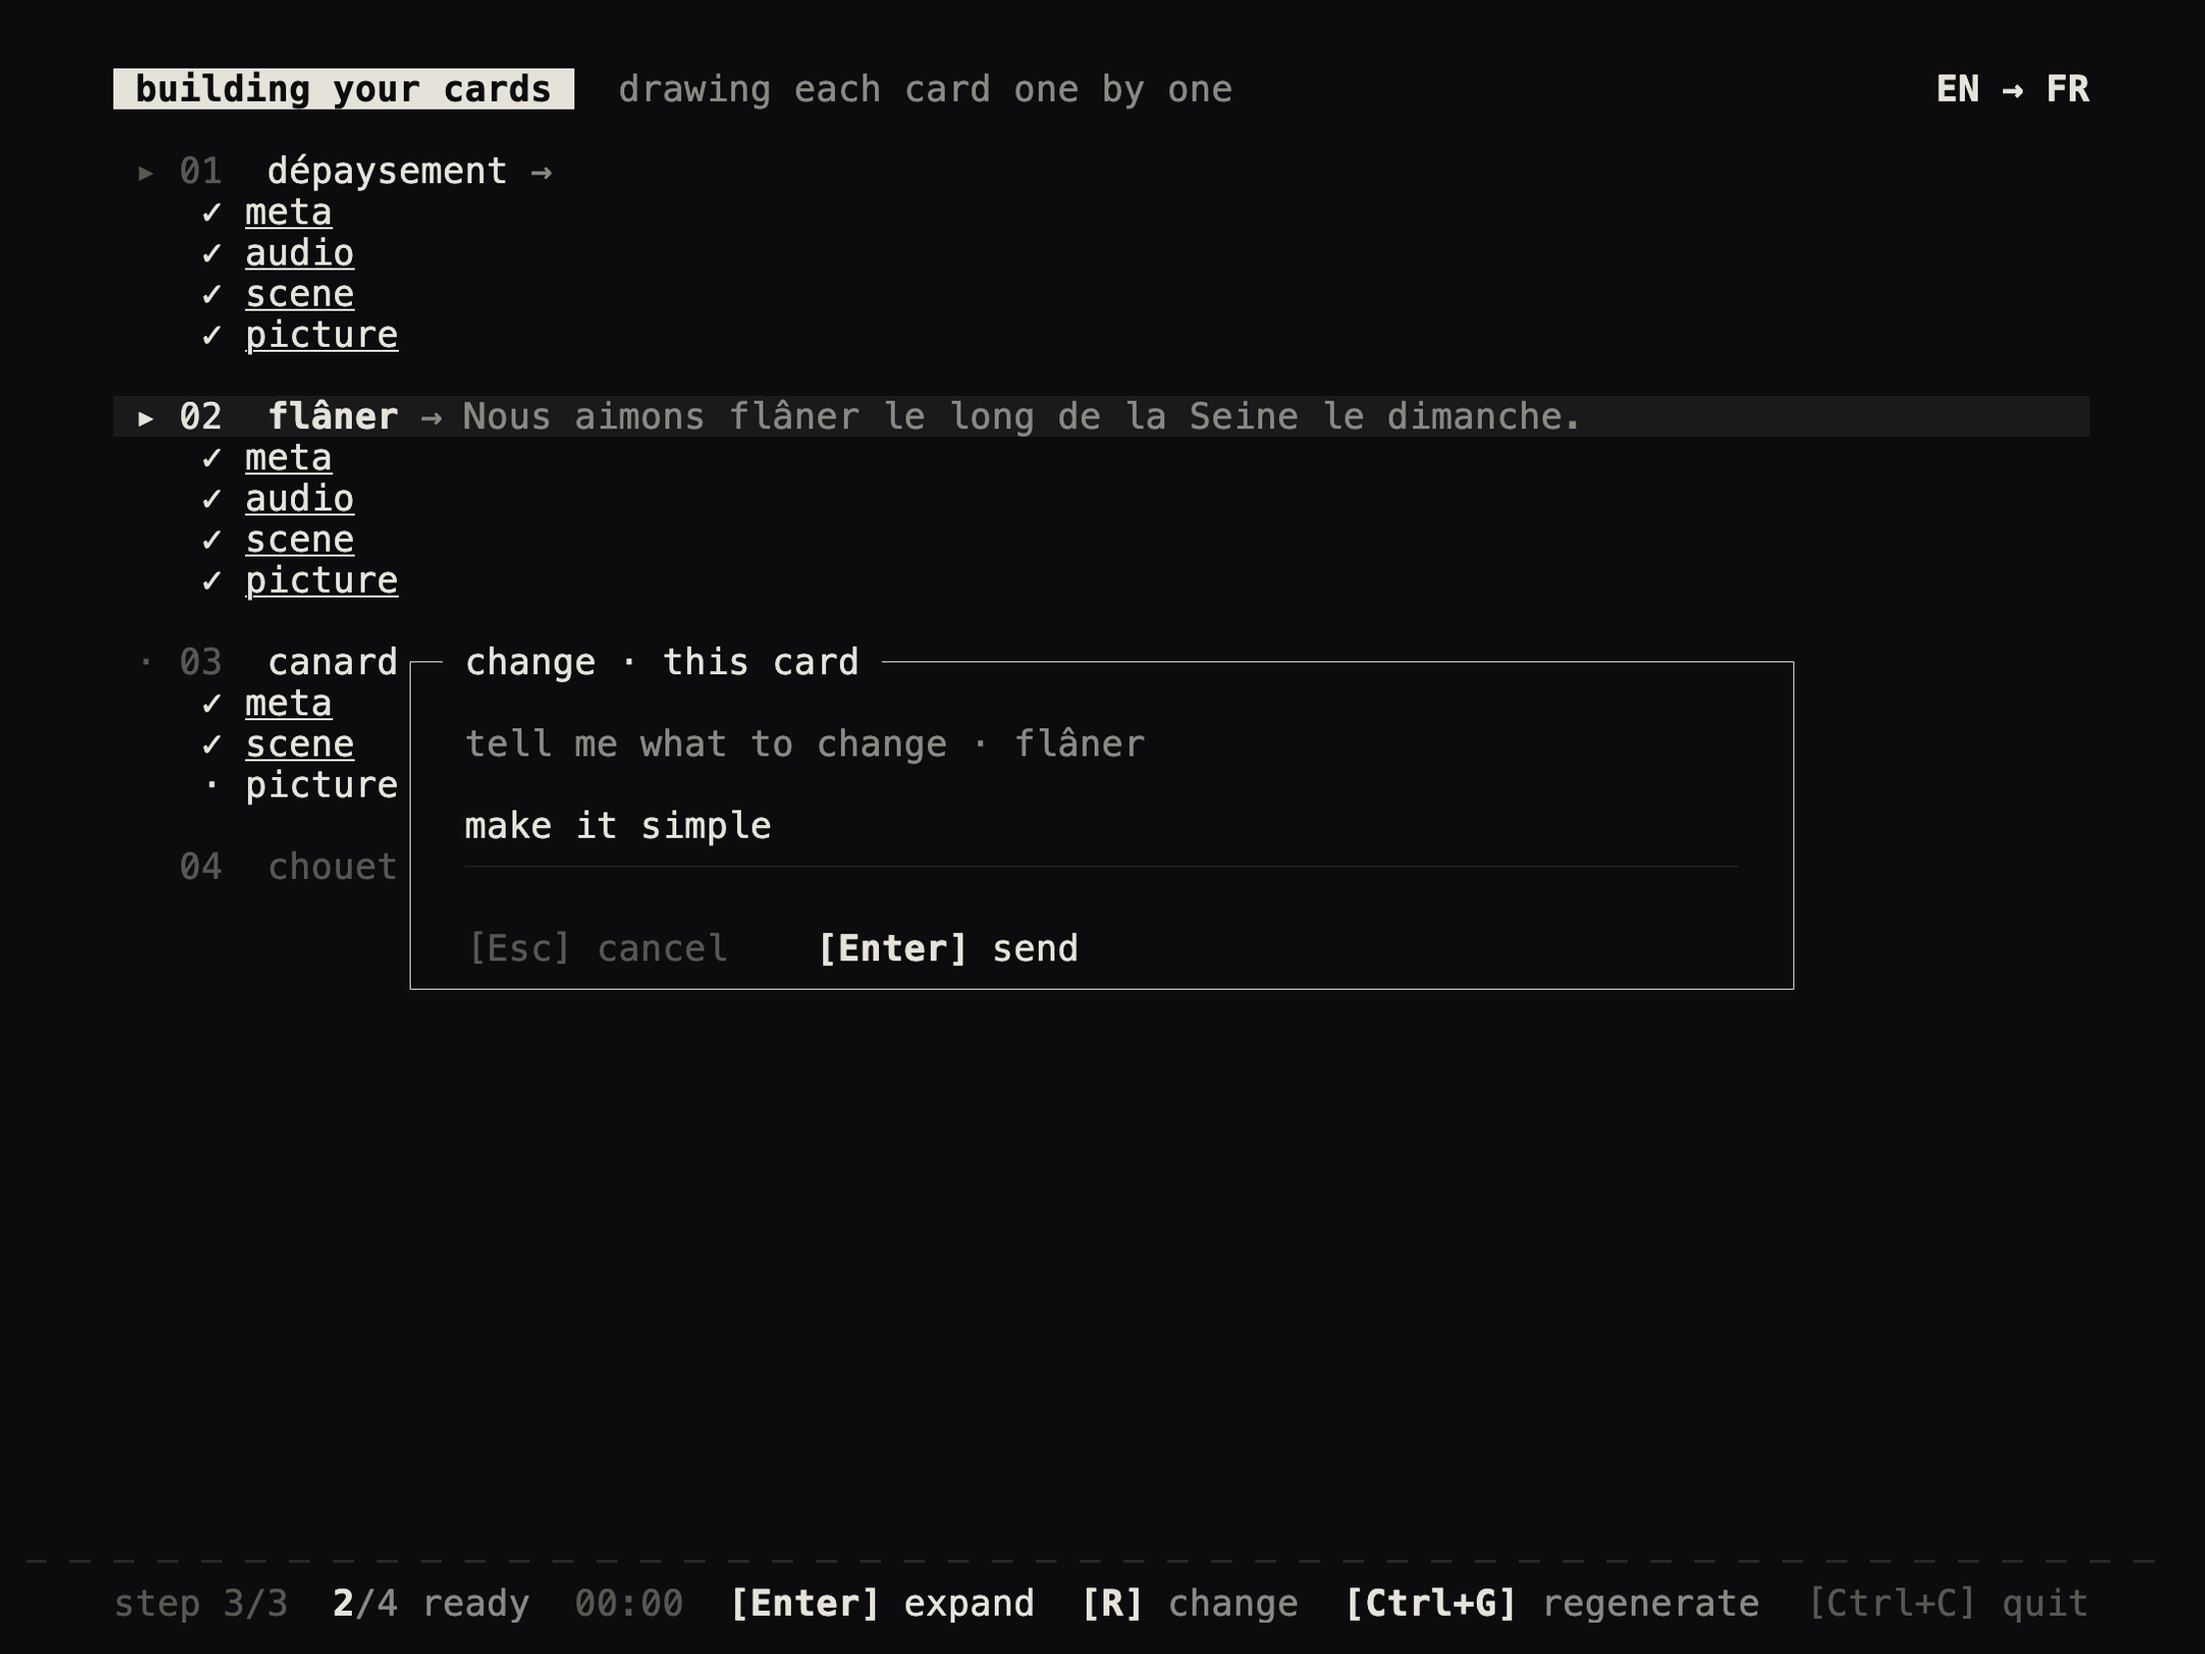
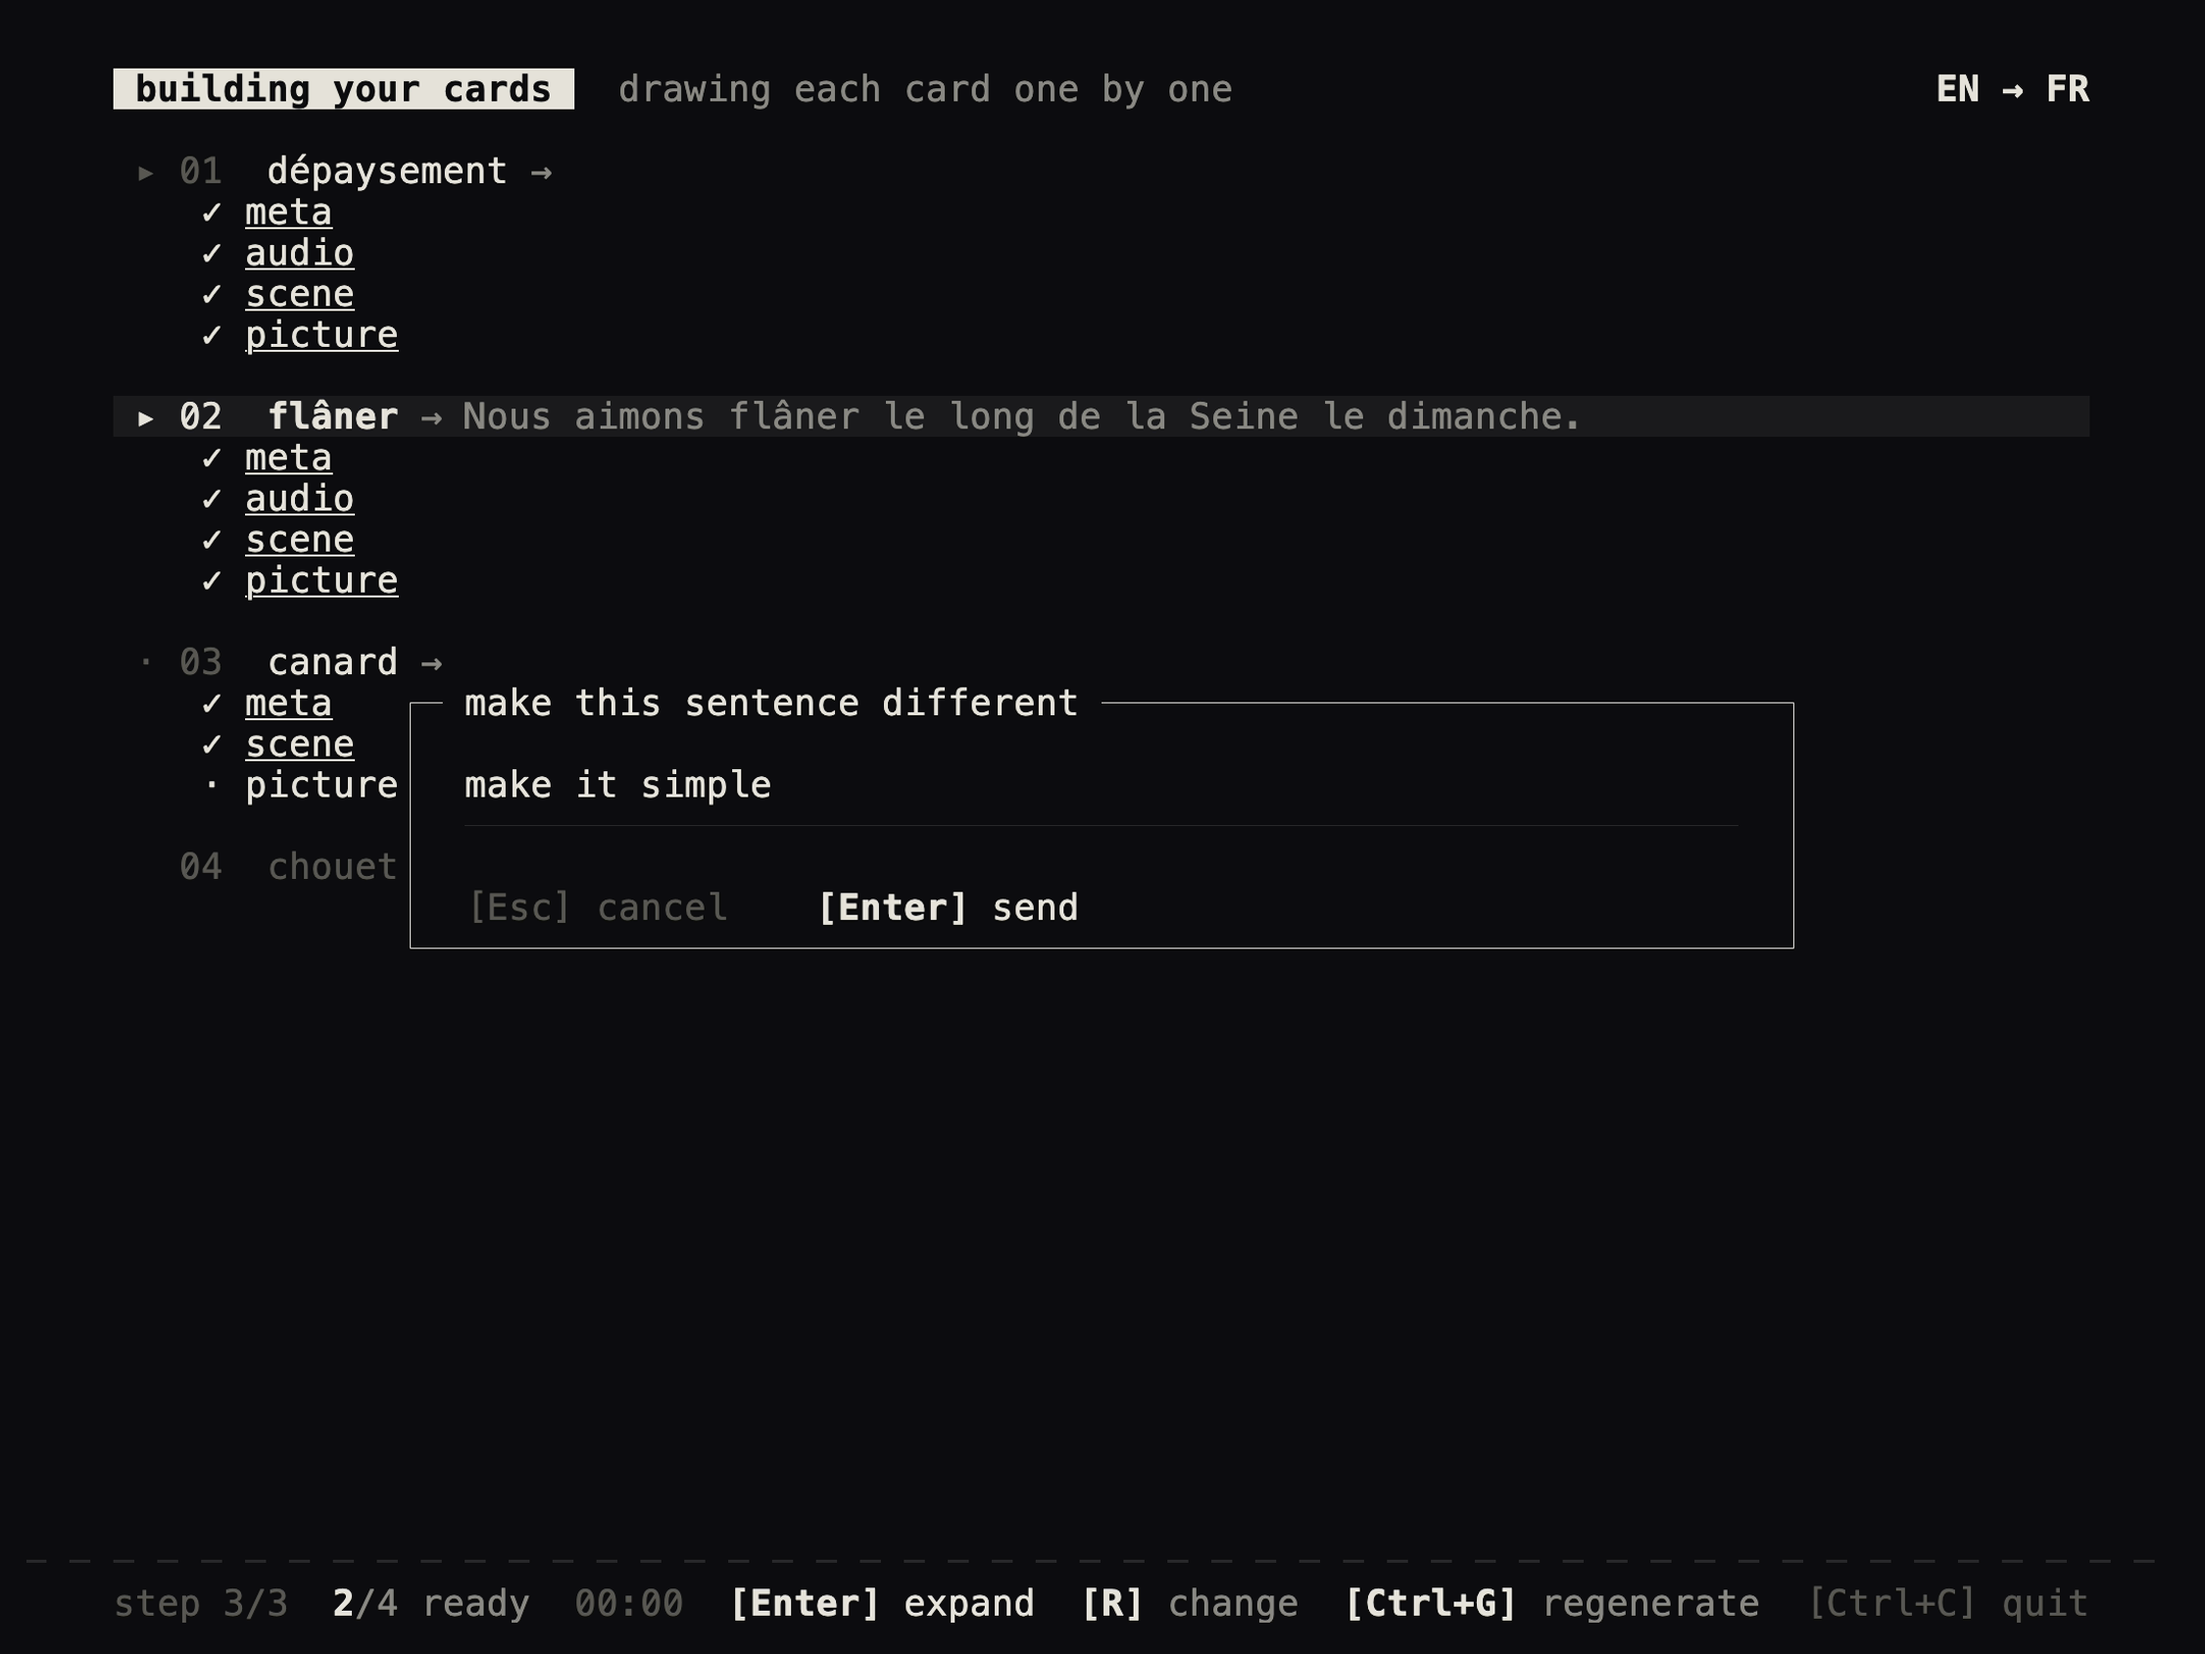
Simplify change-card modal

Changed region(s): [[0.1867, 0.3697, 0.5289, 0.5853], [0.3733, 0.5237, 0.4978, 0.5853]]

diff --git a/src/tui/screens/modals.rs b/src/tui/screens/modals.rs
@@ -26,10 +26,12 @@ use crate::tui::screen::ModalKind;
 
 const TEXT_MODAL_WIDTH: u16 = 64;
 const TEXT_MODAL_HEIGHT: u16 = 9;
+const SIMPLE_TEXT_MODAL_HEIGHT: u16 = 7;
 const PICKER_MODAL_WIDTH: u16 = 66;
 const PICKER_MODAL_HEIGHT: u16 = 7;
 const HORIZONTAL_PADDING: u16 = 2;
 const INPUT_LINE_OFFSET: u16 = 3;
+const SIMPLE_INPUT_LINE_OFFSET: u16 = 1;
 
 /// Draw the modal of the requested kind.
 pub fn draw(frame: &mut Frame, area: Rect, kind: ModalKind, app: &App) {
@@ -42,7 +44,7 @@ pub fn draw(frame: &mut Frame, area: Rect, kind: ModalKind, app: &App) {
 }
 
 fn draw_text_modal(frame: &mut Frame, area: Rect, kind: ModalKind, app: &App) {
-    let inset = centered(area, TEXT_MODAL_WIDTH, TEXT_MODAL_HEIGHT);
+    let inset = centered(area, TEXT_MODAL_WIDTH, text_modal_height(kind));
     super::common::paint_background(frame, inset);
     frame.render_widget(Clear, inset);
     let block = surround();
@@ -53,7 +55,7 @@ fn draw_text_modal(frame: &mut Frame, area: Rect, kind: ModalKind, app: &App) {
     paint_title(frame, inset, text_title(kind));
     let buffer_width = app.modal_buffer().chars().count() as u16;
     let cursor_x = (content.x + buffer_width).min(content.x + content.width.saturating_sub(1));
-    let cursor_y = content.y + INPUT_LINE_OFFSET;
+    let cursor_y = content.y + input_line_offset(kind);
     frame.set_cursor_position((cursor_x, cursor_y));
 }
 
@@ -102,8 +104,24 @@ fn padded(inner: Rect) -> Rect {
 fn text_title(kind: ModalKind) -> &'static str {
     match kind {
         ModalKind::ChangeSomething => "what meanings did we miss?",
-        ModalKind::ChangeThisCard => "change · this card",
+        ModalKind::ChangeThisCard => "make this sentence different",
         ModalKind::PickMyLanguage => "your language",
+    }
+}
+
+fn text_modal_height(kind: ModalKind) -> u16 {
+    match kind {
+        ModalKind::ChangeSomething => TEXT_MODAL_HEIGHT,
+        ModalKind::ChangeThisCard => SIMPLE_TEXT_MODAL_HEIGHT,
+        ModalKind::PickMyLanguage => PICKER_MODAL_HEIGHT,
+    }
+}
+
+fn input_line_offset(kind: ModalKind) -> u16 {
+    match kind {
+        ModalKind::ChangeSomething => INPUT_LINE_OFFSET,
+        ModalKind::ChangeThisCard => SIMPLE_INPUT_LINE_OFFSET,
+        ModalKind::PickMyLanguage => SIMPLE_INPUT_LINE_OFFSET,
     }
 }
 
@@ -116,13 +134,7 @@ fn text_panel<'a>(kind: ModalKind, app: &'a App, width: usize) -> Paragraph<'a> 
                 .map(|candidate| candidate.term())
                 .unwrap_or("")
         ),
-        ModalKind::ChangeThisCard => format!(
-            "tell me what to change · {}",
-            app.cards()
-                .get(app.card_selected())
-                .map(|draft| draft.term())
-                .unwrap_or("")
-        ),
+        ModalKind::ChangeThisCard => String::new(),
         ModalKind::PickMyLanguage => String::new(),
     };
     let input = if app.modal_buffer().is_empty() {
@@ -138,15 +150,24 @@ fn text_panel<'a>(kind: ModalKind, app: &'a App, width: usize) -> Paragraph<'a> 
     action_spans.push(Span::styled(String::from("    "), palette::base()));
     action_spans.extend(super::common::FooterHint::primary("Enter", "send").spans());
     let actions = Line::from(action_spans);
-    let lines = vec![
-        Line::from(""),
-        Line::from(Span::styled(prompt, palette::dim())),
-        Line::from(""),
-        input,
-        Line::from(Span::styled(dashes, palette::rule())),
-        Line::from(""),
-        actions,
-    ];
+    let lines = match kind {
+        ModalKind::ChangeSomething => vec![
+            Line::from(""),
+            Line::from(Span::styled(prompt, palette::dim())),
+            Line::from(""),
+            input,
+            Line::from(Span::styled(dashes, palette::rule())),
+            Line::from(""),
+            actions,
+        ],
+        ModalKind::ChangeThisCard | ModalKind::PickMyLanguage => vec![
+            Line::from(""),
+            input,
+            Line::from(Span::styled(dashes, palette::rule())),
+            Line::from(""),
+            actions,
+        ],
+    };
     Paragraph::new(lines).style(palette::base())
 }
 

diff --git a/tests/change_this_card.rs b/tests/change_this_card.rs
@@ -96,10 +96,10 @@ fn request_change_on_your_cards_opens_per_card_modal() {
     let rendered = flat(&opened);
     assert!(
         opened.modal() == Some(ModalKind::ChangeThisCard)
-            && rendered.contains("change · this card")
-            && rendered.contains("tell me what to change")
-            && rendered.contains("whilst"),
-        "R on Your cards must open the per-card modal with the right prompt and card preview"
+            && rendered.contains("make this sentence different")
+            && rendered.contains("[Enter] send")
+            && !rendered.contains("tell me what to change"),
+        "R on Your cards must open a simple per-card rewrite modal"
     );
 }
 
@@ -138,7 +138,7 @@ fn card_correction_loader_hides_the_change_card_modal_body() {
             && side == Side::RunCardCorrection(String::from("verb"))
             && rendered.contains("working")
             && rendered.contains("updating this card")
-            && !rendered.contains("change · this card")
+            && !rendered.contains("make this sentence different")
             && !rendered.contains("tell me what to change")
             && !rendered.contains("verb"),
         "card-correction loader must hide the modal body while preserving the pending state"
